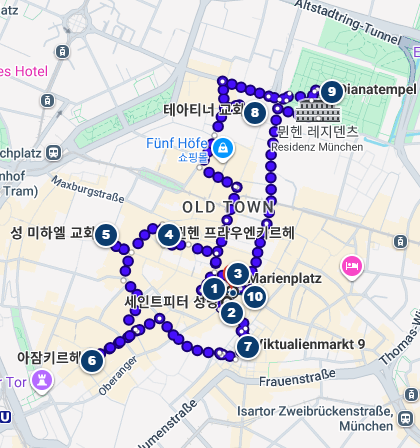
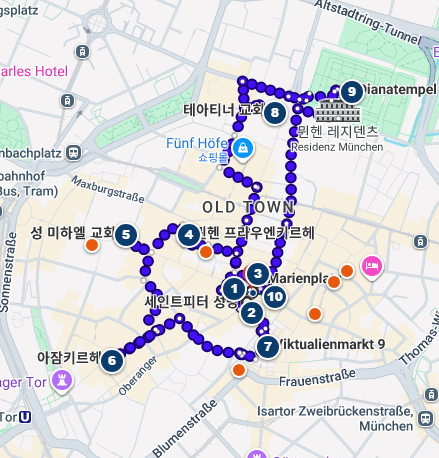
Add restaurant map markers and nearest-landmark distance for München/Neuschwanstein
Same treatment as the previous batch: real geocoded restaurant
locations overlaid as small unnumbered dots on the walking-route
screenshots, plus a verified nearest-landmark distance/time line on
each restaurant card.

diff --git a/germany-roadtrip-planner.html b/germany-roadtrip-planner.html
@@ -1712,36 +1712,42 @@ document.addEventListener('DOMContentLoaded', function(){
           <p class="food-loc">시내 중심(플라츨) · 1589년 창업, 세계에서 가장 유명한 맥주홀 · 매일 11:00–24:00(주방 22:00까지, 라스트오더 23:30)</p>
           <p class="food-dish">🍽 꼭 시켜야 할 메뉴: 마스(1L) 생맥주 + 학세</p>
           <p class="food-park">🅿 대중교통 권장(U-Bahn) · <a href="https://www.google.com/maps/search/?api=1&query=Hofbraeuhaus+Muenchen" target="_blank" rel="noopener">지도</a></p>
+          <p class="food-near">📍 마리엔 광장(구시청)에서 약 400m·도보 6분</p>
         </div>
         <div class="food-card">
           <h5>Weisses Bräuhaus im Tal</h5>
           <p class="food-loc">Tal 거리 · 1872년 창업, 슈나이더 바이세 양조장 직영 바이스부어스트 명가 · 매일 08:00–24:00(바이스부어스트는 09:00–12:00까지만 판매)</p>
           <p class="food-dish">🍽 꼭 시켜야 할 메뉴: 바이스부어스트(정오 전) + 오밧츠다</p>
           <p class="food-park">🅿 대중교통 권장(U-Bahn) · <a href="https://www.google.com/maps/search/?api=1&query=Weisses+Braeuhaus+Muenchen" target="_blank" rel="noopener">지도</a></p>
+          <p class="food-near">📍 빅투알리엔마르크트에서 약 240m·도보 3분</p>
         </div>
         <div class="food-card">
           <h5>Augustiner Stammhaus</h5>
           <p class="food-loc">Neuhauser Straße(마리엔광장~카를스토어) · 1829년부터 이어진 아우구스티너 브루어리 본점 · 레스토랑 월–토 11:00–24:00, 일·공휴일 11:00–22:00</p>
           <p class="food-dish">🍽 꼭 시켜야 할 메뉴: 수르학세(아이스바인, €21.00)</p>
           <p class="food-park">🅿 대중교통 권장(U-Bahn) · <a href="https://www.google.com/maps/search/?api=1&query=Augustiner+Stammhaus+Muenchen" target="_blank" rel="noopener">지도</a></p>
+          <p class="food-near">📍 성 미하엘 교회에서 약 140m·도보 2분</p>
         </div>
         <div class="food-card">
           <h5>Andechser am Dom</h5>
           <p class="food-loc">프라우엔 대성당 바로 옆 · 안덱스 수도원 맥주를 취급하는 전통 선술집 · 월–목 10:00–24:00, 금 11:00–익01:00, 토 10:00–익01:00, 일 10:00–24:00(방문일 9/21 월요일 기준 10:00–24:00)</p>
           <p class="food-dish">🍽 꼭 시켜야 할 메뉴: 슈바인스학세</p>
           <p class="food-park">🅿 대중교통 권장(U-Bahn) · <a href="https://www.google.com/maps/search/?api=1&query=Andechser+am+Dom+Muenchen" target="_blank" rel="noopener">지도</a></p>
+          <p class="food-near">📍 프라우엔교회에서 약 120m·도보 2분</p>
         </div>
         <div class="food-card">
           <h5>Der Pschorr</h5>
           <p class="food-loc">빅투알리엔 시장 내 · 대형 바이에른 비어할레, 슈바인스학세 명물 · 일–금 11:00–23:00, 토·공휴일 10:00–23:00</p>
           <p class="food-dish">🍽 꼭 시켜야 할 메뉴: 슈바인스학세</p>
           <p class="food-park">🅿 대중교통 권장(U-Bahn) · <a href="https://www.google.com/maps/search/?api=1&query=Der+Pschorr+Muenchen" target="_blank" rel="noopener">지도</a></p>
+          <p class="food-near">📍 빅투알리엔마르크트에서 약 140m·도보 2분</p>
         </div>
         <div class="food-card">
           <h5>Shoya Imbiss</h5>
           <p class="food-loc">호프브로이하우스 바로 옆(Orlandostraße) · 현지인도 줄 서는 작은 일식 스시·라멘집 · ⚠ 뮌헨에 같은 이름의 매장이 3곳 있어(프라우엔 거리·오를란도 거리·플라츨) 출처마다 영업시간이 뒤섞여 나옴 — 방문 전 전화 확인 권장(오를란도점 ☎ 089 24223828)</p>
           <p class="food-dish">🍽 꼭 시켜야 할 메뉴: 라멘+교자 세트(€18.00)</p>
           <p class="food-park">🅿 대중교통 권장(U-Bahn) · <a href="https://www.google.com/maps/search/?api=1&query=Shoya+Imbiss+Muenchen" target="_blank" rel="noopener">지도</a></p>
+          <p class="food-near">📍 마리엔 광장(구시청)에서 약 350m·도보 5분</p>
         </div>
       </div>
       </div>
@@ -1907,36 +1913,42 @@ document.addEventListener('DOMContentLoaded', function(){
           <p class="food-loc">Alpseestraße 5, 티켓센터 도보권 · 성 조망 좌석을 갖춘 대형 레스토랑 · 매일 10:00–17:00(온음식 10:30–16:00)</p>
           <p class="food-dish">🍽 향토·인터내셔널 요리</p>
           <p class="food-park">🅿 도보권(P1~P4) · <a href="https://www.google.com/maps/search/?api=1&query=Restaurant+Cafe+Kainz+Hohenschwangau" target="_blank" rel="noopener">지도</a></p>
+          <p class="food-near">📍 주차장(P1~P4)에서 약 500m·도보 8분</p>
         </div>
         <div class="food-card">
           <h5>Restaurant Dorfwirt</h5>
           <p class="food-loc">Alpseestraße 15, 두 성 사이 · 아늑한 알파인 스타일 여관 · 레스토랑 11:00–20:00(주방 11:30–19:00)</p>
           <p class="food-dish">🍽 향토 요리</p>
           <p class="food-park">🅿 도보권(P1~P4) · <a href="https://www.google.com/maps/search/?api=1&query=Restaurant+Dorfwirt+Hohenschwangau" target="_blank" rel="noopener">지도</a></p>
+          <p class="food-near">📍 주차장(P1~P4)에서 약 300m·도보 4분</p>
         </div>
         <div class="food-card">
           <h5>Schloss Bräustüberl Hohenschwangau</h5>
           <p class="food-loc">Alpseestraße 21, 노이슈반슈타인 성 바로 아래 · 지역 정육점·치즈 농가 식자재를 쓰는 여관 겸 비어가든 · 3/27–12/23 매일 11:30–21:00</p>
           <p class="food-dish">🍽 꼭 시켜야 할 메뉴: 비너 슈니첼, 케제슈페츨레</p>
           <p class="food-park">🅿 도보권(P1~P4) · <a href="https://www.google.com/maps/search/?api=1&query=Schloss+Braeustueberl+Hohenschwangau" target="_blank" rel="noopener">지도</a></p>
+          <p class="food-near">📍 주차장(P1~P4)에서 약 150m·도보 2분</p>
         </div>
         <div class="food-card">
           <h5>Restaurant Alpenstuben</h5>
           <p class="food-loc">Alpseestraße 8(호텔 알펜슈투벤 부속) · 바이에른 전통 다이닝룸 · 매일 12:00–21:00(17:00 이후는 예약 권장)</p>
           <p class="food-dish">🍽 바이에른 전통 요리</p>
           <p class="food-park">🅿 도보권(P1~P4) · <a href="https://www.google.com/maps/search/?api=1&query=Alpenstuben+Hohenschwangau" target="_blank" rel="noopener">지도</a></p>
+          <p class="food-near">📍 주차장(P1~P4)에서 약 400m·도보 6분</p>
         </div>
         <div class="food-card">
           <h5>Restaurant Acht-Eck (Hotel Müller)</h5>
           <p class="food-loc">Alpseestraße 16, 성 조망 가능 · 1910년부터 이어진 가족 운영 호텔 레스토랑 · 매일 영업(화요일 기준 약 11:00–21:00, 공식 사이트엔 요일별 세부시간 없음)</p>
           <p class="food-dish">🍽 비너 슈니첼, 알고이어 케제슈페츨레</p>
           <p class="food-park">🅿 도보권(P1~P4) · <a href="https://www.google.com/maps/search/?api=1&query=Hotel+Mueller+Restaurant+Acht-Eck+Hohenschwangau" target="_blank" rel="noopener">지도</a></p>
+          <p class="food-near">📍 주차장(P1~P4)에서 약 230m·도보 3분</p>
         </div>
         <div class="food-card">
           <h5>Imbiss Königshütte</h5>
           <p class="food-loc">Alpseestraße 1, 성 매표소 인근 · 캐주얼 임비스(간이 매점) · 화요일 기준 약 11:00–20:00(공식 홈페이지 없어 2차 출처 기준)</p>
           <p class="food-dish">🍽 커리부어스트, 슈니첼</p>
           <p class="food-park">🅿 도보권(P1~P4) · <a href="https://www.google.com/maps/search/?api=1&query=Imbiss+Koenigshuette+Hohenschwangau" target="_blank" rel="noopener">지도</a></p>
+          <p class="food-near">📍 주차장(P1~P4)에서 약 500m·도보 7분</p>
         </div>
       </div>
       </div>

diff --git a/index.html b/index.html
@@ -1712,36 +1712,42 @@ document.addEventListener('DOMContentLoaded', function(){
           <p class="food-loc">시내 중심(플라츨) · 1589년 창업, 세계에서 가장 유명한 맥주홀 · 매일 11:00–24:00(주방 22:00까지, 라스트오더 23:30)</p>
           <p class="food-dish">🍽 꼭 시켜야 할 메뉴: 마스(1L) 생맥주 + 학세</p>
           <p class="food-park">🅿 대중교통 권장(U-Bahn) · <a href="https://www.google.com/maps/search/?api=1&query=Hofbraeuhaus+Muenchen" target="_blank" rel="noopener">지도</a></p>
+          <p class="food-near">📍 마리엔 광장(구시청)에서 약 400m·도보 6분</p>
         </div>
         <div class="food-card">
           <h5>Weisses Bräuhaus im Tal</h5>
           <p class="food-loc">Tal 거리 · 1872년 창업, 슈나이더 바이세 양조장 직영 바이스부어스트 명가 · 매일 08:00–24:00(바이스부어스트는 09:00–12:00까지만 판매)</p>
           <p class="food-dish">🍽 꼭 시켜야 할 메뉴: 바이스부어스트(정오 전) + 오밧츠다</p>
           <p class="food-park">🅿 대중교통 권장(U-Bahn) · <a href="https://www.google.com/maps/search/?api=1&query=Weisses+Braeuhaus+Muenchen" target="_blank" rel="noopener">지도</a></p>
+          <p class="food-near">📍 빅투알리엔마르크트에서 약 240m·도보 3분</p>
         </div>
         <div class="food-card">
           <h5>Augustiner Stammhaus</h5>
           <p class="food-loc">Neuhauser Straße(마리엔광장~카를스토어) · 1829년부터 이어진 아우구스티너 브루어리 본점 · 레스토랑 월–토 11:00–24:00, 일·공휴일 11:00–22:00</p>
           <p class="food-dish">🍽 꼭 시켜야 할 메뉴: 수르학세(아이스바인, €21.00)</p>
           <p class="food-park">🅿 대중교통 권장(U-Bahn) · <a href="https://www.google.com/maps/search/?api=1&query=Augustiner+Stammhaus+Muenchen" target="_blank" rel="noopener">지도</a></p>
+          <p class="food-near">📍 성 미하엘 교회에서 약 140m·도보 2분</p>
         </div>
         <div class="food-card">
           <h5>Andechser am Dom</h5>
           <p class="food-loc">프라우엔 대성당 바로 옆 · 안덱스 수도원 맥주를 취급하는 전통 선술집 · 월–목 10:00–24:00, 금 11:00–익01:00, 토 10:00–익01:00, 일 10:00–24:00(방문일 9/21 월요일 기준 10:00–24:00)</p>
           <p class="food-dish">🍽 꼭 시켜야 할 메뉴: 슈바인스학세</p>
           <p class="food-park">🅿 대중교통 권장(U-Bahn) · <a href="https://www.google.com/maps/search/?api=1&query=Andechser+am+Dom+Muenchen" target="_blank" rel="noopener">지도</a></p>
+          <p class="food-near">📍 프라우엔교회에서 약 120m·도보 2분</p>
         </div>
         <div class="food-card">
           <h5>Der Pschorr</h5>
           <p class="food-loc">빅투알리엔 시장 내 · 대형 바이에른 비어할레, 슈바인스학세 명물 · 일–금 11:00–23:00, 토·공휴일 10:00–23:00</p>
           <p class="food-dish">🍽 꼭 시켜야 할 메뉴: 슈바인스학세</p>
           <p class="food-park">🅿 대중교통 권장(U-Bahn) · <a href="https://www.google.com/maps/search/?api=1&query=Der+Pschorr+Muenchen" target="_blank" rel="noopener">지도</a></p>
+          <p class="food-near">📍 빅투알리엔마르크트에서 약 140m·도보 2분</p>
         </div>
         <div class="food-card">
           <h5>Shoya Imbiss</h5>
           <p class="food-loc">호프브로이하우스 바로 옆(Orlandostraße) · 현지인도 줄 서는 작은 일식 스시·라멘집 · ⚠ 뮌헨에 같은 이름의 매장이 3곳 있어(프라우엔 거리·오를란도 거리·플라츨) 출처마다 영업시간이 뒤섞여 나옴 — 방문 전 전화 확인 권장(오를란도점 ☎ 089 24223828)</p>
           <p class="food-dish">🍽 꼭 시켜야 할 메뉴: 라멘+교자 세트(€18.00)</p>
           <p class="food-park">🅿 대중교통 권장(U-Bahn) · <a href="https://www.google.com/maps/search/?api=1&query=Shoya+Imbiss+Muenchen" target="_blank" rel="noopener">지도</a></p>
+          <p class="food-near">📍 마리엔 광장(구시청)에서 약 350m·도보 5분</p>
         </div>
       </div>
       </div>
@@ -1907,36 +1913,42 @@ document.addEventListener('DOMContentLoaded', function(){
           <p class="food-loc">Alpseestraße 5, 티켓센터 도보권 · 성 조망 좌석을 갖춘 대형 레스토랑 · 매일 10:00–17:00(온음식 10:30–16:00)</p>
           <p class="food-dish">🍽 향토·인터내셔널 요리</p>
           <p class="food-park">🅿 도보권(P1~P4) · <a href="https://www.google.com/maps/search/?api=1&query=Restaurant+Cafe+Kainz+Hohenschwangau" target="_blank" rel="noopener">지도</a></p>
+          <p class="food-near">📍 주차장(P1~P4)에서 약 500m·도보 8분</p>
         </div>
         <div class="food-card">
           <h5>Restaurant Dorfwirt</h5>
           <p class="food-loc">Alpseestraße 15, 두 성 사이 · 아늑한 알파인 스타일 여관 · 레스토랑 11:00–20:00(주방 11:30–19:00)</p>
           <p class="food-dish">🍽 향토 요리</p>
           <p class="food-park">🅿 도보권(P1~P4) · <a href="https://www.google.com/maps/search/?api=1&query=Restaurant+Dorfwirt+Hohenschwangau" target="_blank" rel="noopener">지도</a></p>
+          <p class="food-near">📍 주차장(P1~P4)에서 약 300m·도보 4분</p>
         </div>
         <div class="food-card">
           <h5>Schloss Bräustüberl Hohenschwangau</h5>
           <p class="food-loc">Alpseestraße 21, 노이슈반슈타인 성 바로 아래 · 지역 정육점·치즈 농가 식자재를 쓰는 여관 겸 비어가든 · 3/27–12/23 매일 11:30–21:00</p>
           <p class="food-dish">🍽 꼭 시켜야 할 메뉴: 비너 슈니첼, 케제슈페츨레</p>
           <p class="food-park">🅿 도보권(P1~P4) · <a href="https://www.google.com/maps/search/?api=1&query=Schloss+Braeustueberl+Hohenschwangau" target="_blank" rel="noopener">지도</a></p>
+          <p class="food-near">📍 주차장(P1~P4)에서 약 150m·도보 2분</p>
         </div>
         <div class="food-card">
           <h5>Restaurant Alpenstuben</h5>
           <p class="food-loc">Alpseestraße 8(호텔 알펜슈투벤 부속) · 바이에른 전통 다이닝룸 · 매일 12:00–21:00(17:00 이후는 예약 권장)</p>
           <p class="food-dish">🍽 바이에른 전통 요리</p>
           <p class="food-park">🅿 도보권(P1~P4) · <a href="https://www.google.com/maps/search/?api=1&query=Alpenstuben+Hohenschwangau" target="_blank" rel="noopener">지도</a></p>
+          <p class="food-near">📍 주차장(P1~P4)에서 약 400m·도보 6분</p>
         </div>
         <div class="food-card">
           <h5>Restaurant Acht-Eck (Hotel Müller)</h5>
           <p class="food-loc">Alpseestraße 16, 성 조망 가능 · 1910년부터 이어진 가족 운영 호텔 레스토랑 · 매일 영업(화요일 기준 약 11:00–21:00, 공식 사이트엔 요일별 세부시간 없음)</p>
           <p class="food-dish">🍽 비너 슈니첼, 알고이어 케제슈페츨레</p>
           <p class="food-park">🅿 도보권(P1~P4) · <a href="https://www.google.com/maps/search/?api=1&query=Hotel+Mueller+Restaurant+Acht-Eck+Hohenschwangau" target="_blank" rel="noopener">지도</a></p>
+          <p class="food-near">📍 주차장(P1~P4)에서 약 230m·도보 3분</p>
         </div>
         <div class="food-card">
           <h5>Imbiss Königshütte</h5>
           <p class="food-loc">Alpseestraße 1, 성 매표소 인근 · 캐주얼 임비스(간이 매점) · 화요일 기준 약 11:00–20:00(공식 홈페이지 없어 2차 출처 기준)</p>
           <p class="food-dish">🍽 커리부어스트, 슈니첼</p>
           <p class="food-park">🅿 도보권(P1~P4) · <a href="https://www.google.com/maps/search/?api=1&query=Imbiss+Koenigshuette+Hohenschwangau" target="_blank" rel="noopener">지도</a></p>
+          <p class="food-near">📍 주차장(P1~P4)에서 약 500m·도보 7분</p>
         </div>
       </div>
       </div>
